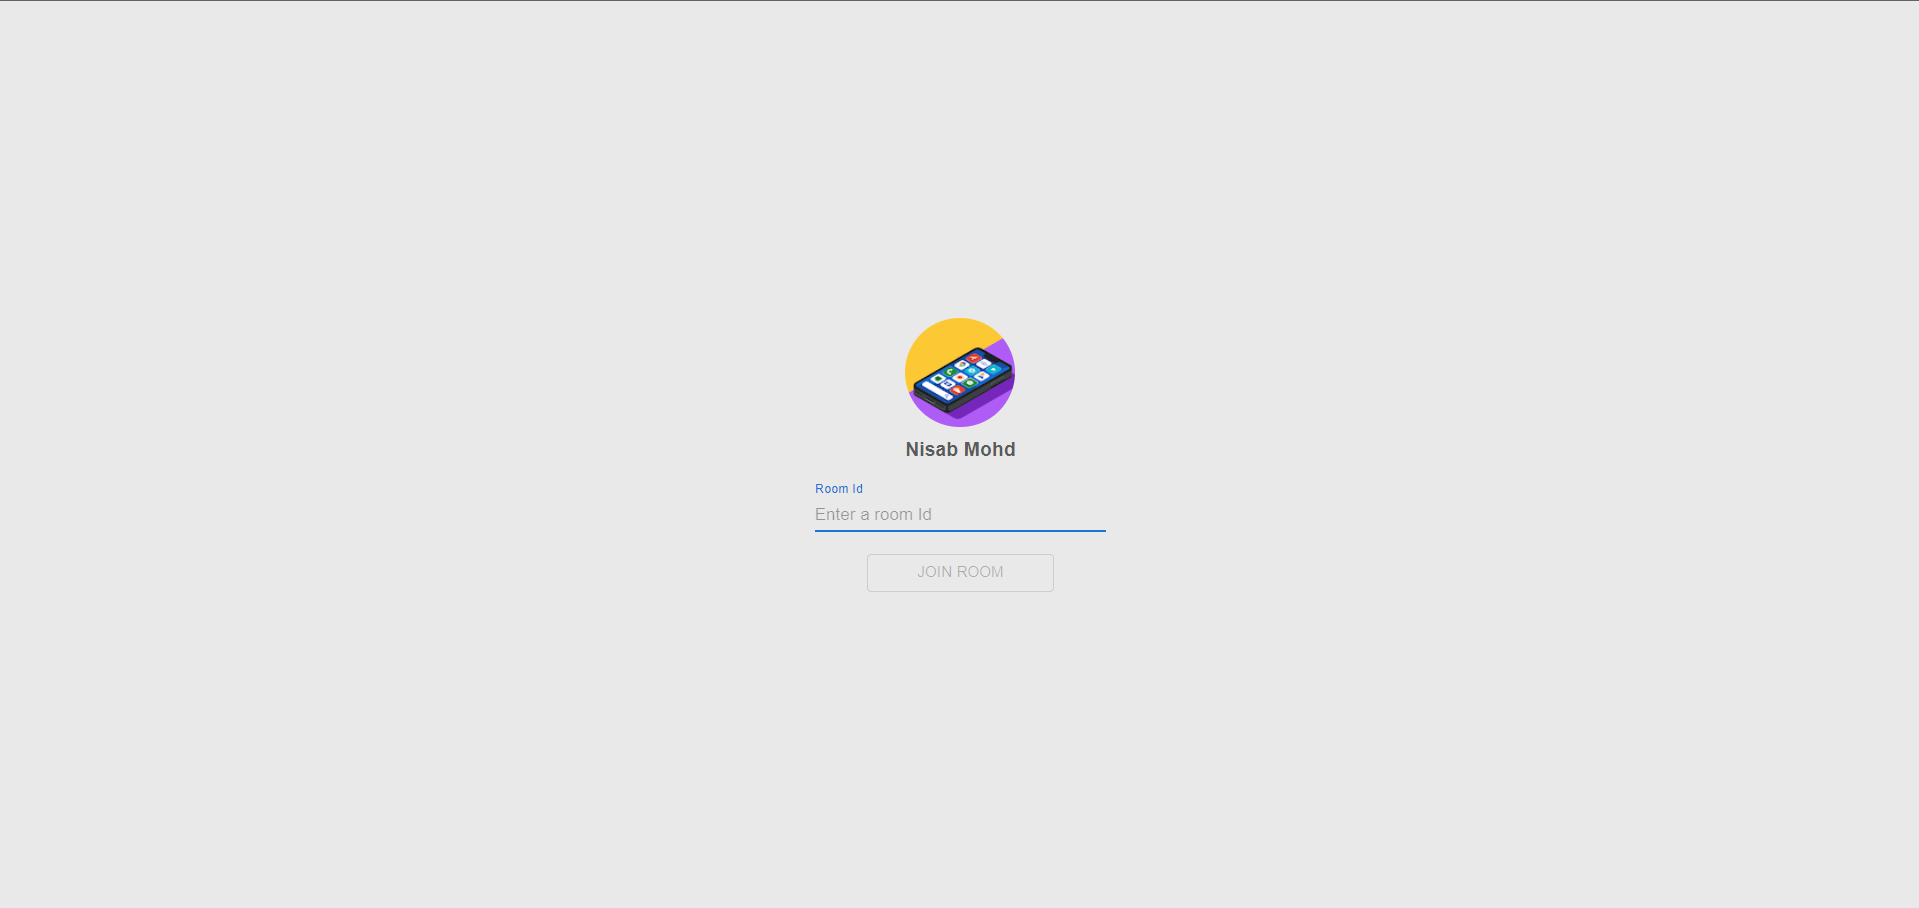
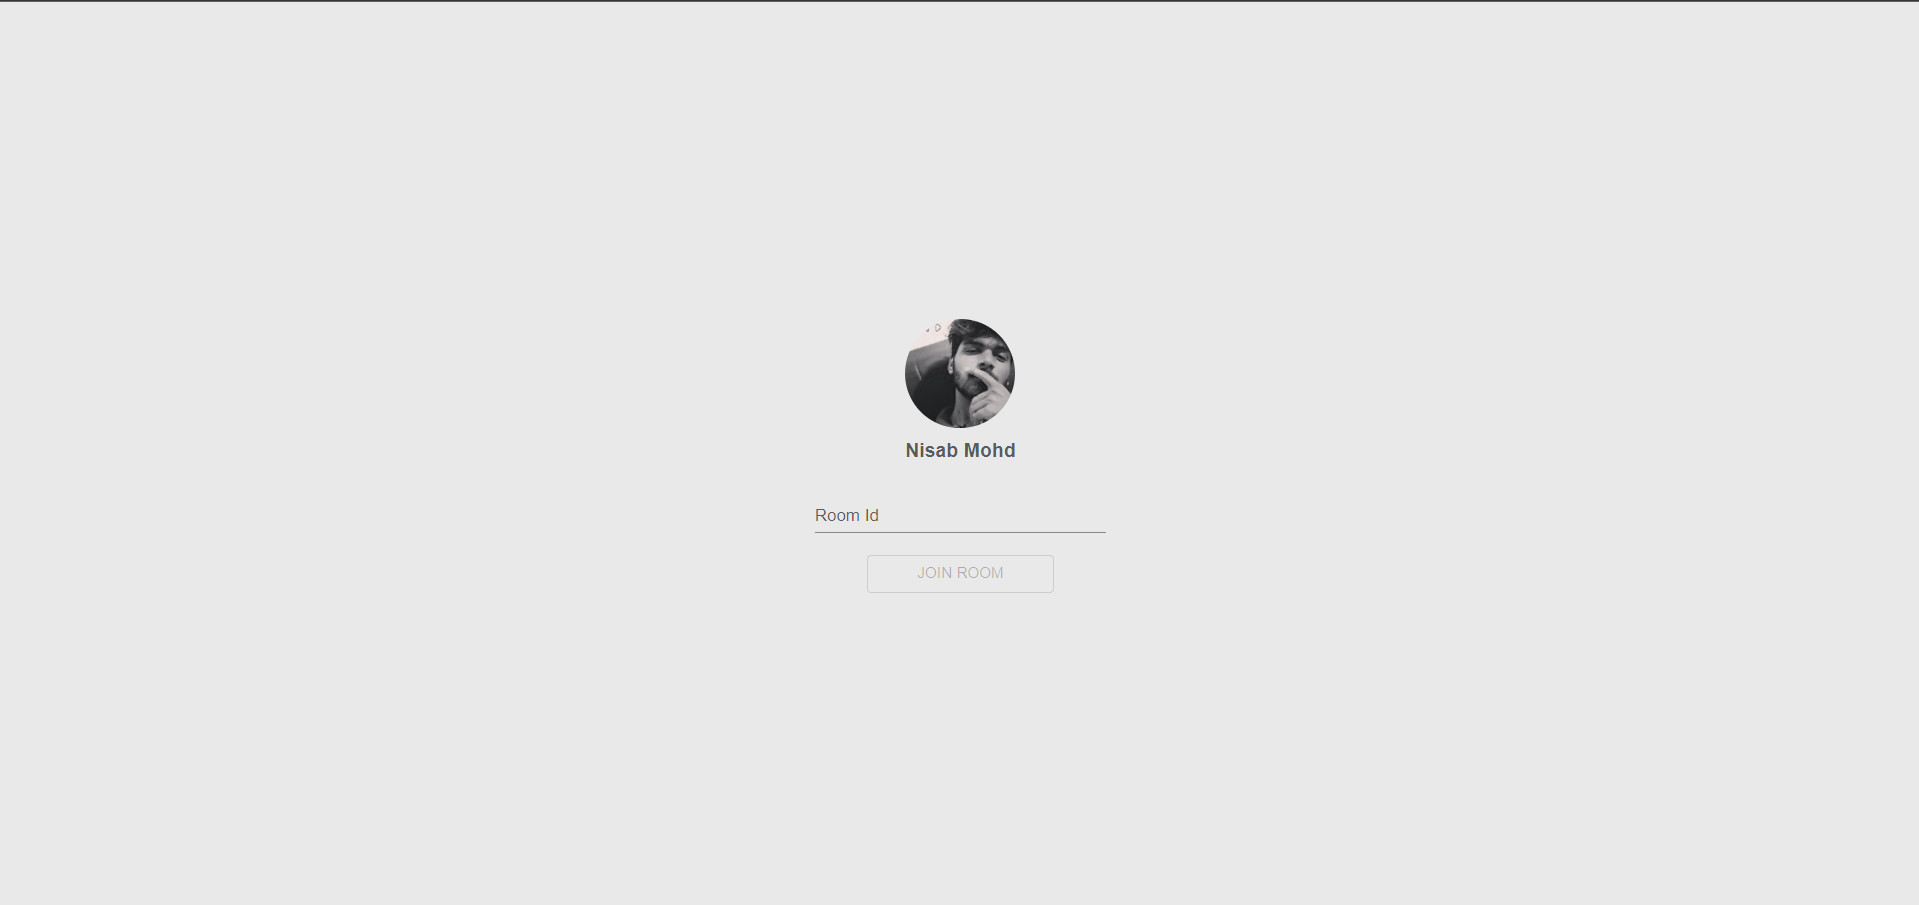
generate random room id

Changed region(s): [[0.4612, 0.3403, 0.5534, 0.526], [0.4304, 0.526, 0.5534, 0.5878], [0.4919, 0.6188, 0.5227, 0.6497]]

diff --git a/src/Room.js b/src/Room.js
@@ -6,6 +6,10 @@ export const Room = (props) => {
     function handleRoomID(){
         props.roomfunc(roomid)
     }
+    function handleGenerate(){
+        const random=new Date().getMonth()+new Date().getHours()+new Date().getSeconds()+new Date().getFullYear()+props.name.slice(0,3)+props.photo.slice(9,18).toString()
+        setRoomid(random)
+    }
   return (
     <div style={{display:'flex',flexDirection:'column',rowGap:'21px',alignItems:'center'}}>
         {/* <Input  placeholder="Enter a room Id" inputProps={ariaLabel} /> */}
@@ -22,6 +26,7 @@ export const Room = (props) => {
           value={roomid}
           onChange={(e)=>{setRoomid(e.target.value)}}
         />
+        <Button onClick={()=>{handleGenerate()}}>Generate one</Button>
         {
             roomid?( <Button onClick={()=>{handleRoomID()}} sx={{width:"179px",margin:'auto'}} variant="outlined">Join Room</Button>):( <Button disabled sx={{width:"179px",margin:'auto'}} variant="outlined">Join Room</Button>)
         }

diff --git a/src/Navbar.js b/src/Navbar.js
@@ -21,6 +21,9 @@ export default function AccountMenu(props) {
     function handleLogout(){
         props.logout()
     }
+    function handleroomswitch(){
+        props.hadleswitch()
+    }
     return (
         <React.Fragment>
             <Box sx={{ display: 'flex', alignItems: 'center', textAlign: 'center' }}>
@@ -72,7 +75,7 @@ export default function AccountMenu(props) {
                 transformOrigin={{ horizontal: 'right', vertical: 'top' }}
                 anchorOrigin={{ horizontal: 'right', vertical: 'bottom' }}
             >
-                <MenuItem onClick={() => handleLogout()}>
+                <MenuItem onClick={() => handleroomswitch()}>
                     <ArrowBackIcon outlined color="disabled" sx={{marginLeft:'-6px'}}>
                         <Logout fontSize="small" />
                     </ArrowBackIcon >

diff --git a/src/Chat.jsx b/src/Chat.jsx
@@ -101,11 +101,11 @@ function Chat(props) {
         <div className='chatbox'>
             <Toaster />
             <div className="chat__header">
-                <Navbar name={props.name} logout={props.logout} uimg={props.photo} roomid={props.roomid}></Navbar>
+                <Navbar hadleswitch={props.switchroom} name={props.name} logout={props.logout} uimg={props.photo} roomid={props.roomid}></Navbar>
             </div>
             <div className="uploadprogress">
                 {
-                    uploading ? (<LinearProgress sx={{ height: '4px' }} />) : (<></>)
+                    uploading ? (<LinearProgress sx={{ height: '3px' }} />) : (<></>)
                 }
             </div>
 

diff --git a/src/App.js b/src/App.js
@@ -16,6 +16,9 @@ function App() {
   function roomfunc(e) {
     setroom(e)
   }
+  function roomswitch(){
+    setroom(null)
+  }
  
   return (
     <div className="App">
@@ -23,7 +26,7 @@ function App() {
         (!user) ?
           (<Login getuser={setgetuser} />) :
           (room ? (<div className="app__cont">
-            <Chat photo={user.photoURL} logout={handlelogout} name={user.displayName} roomid={room} />
+            <Chat photo={user.photoURL} logout={handlelogout} name={user.displayName} roomid={room} switchroom={roomswitch} />
           </div>) : <Room roomfunc={roomfunc} photo={user.photoURL} name={user.displayName} />
           )
       }
